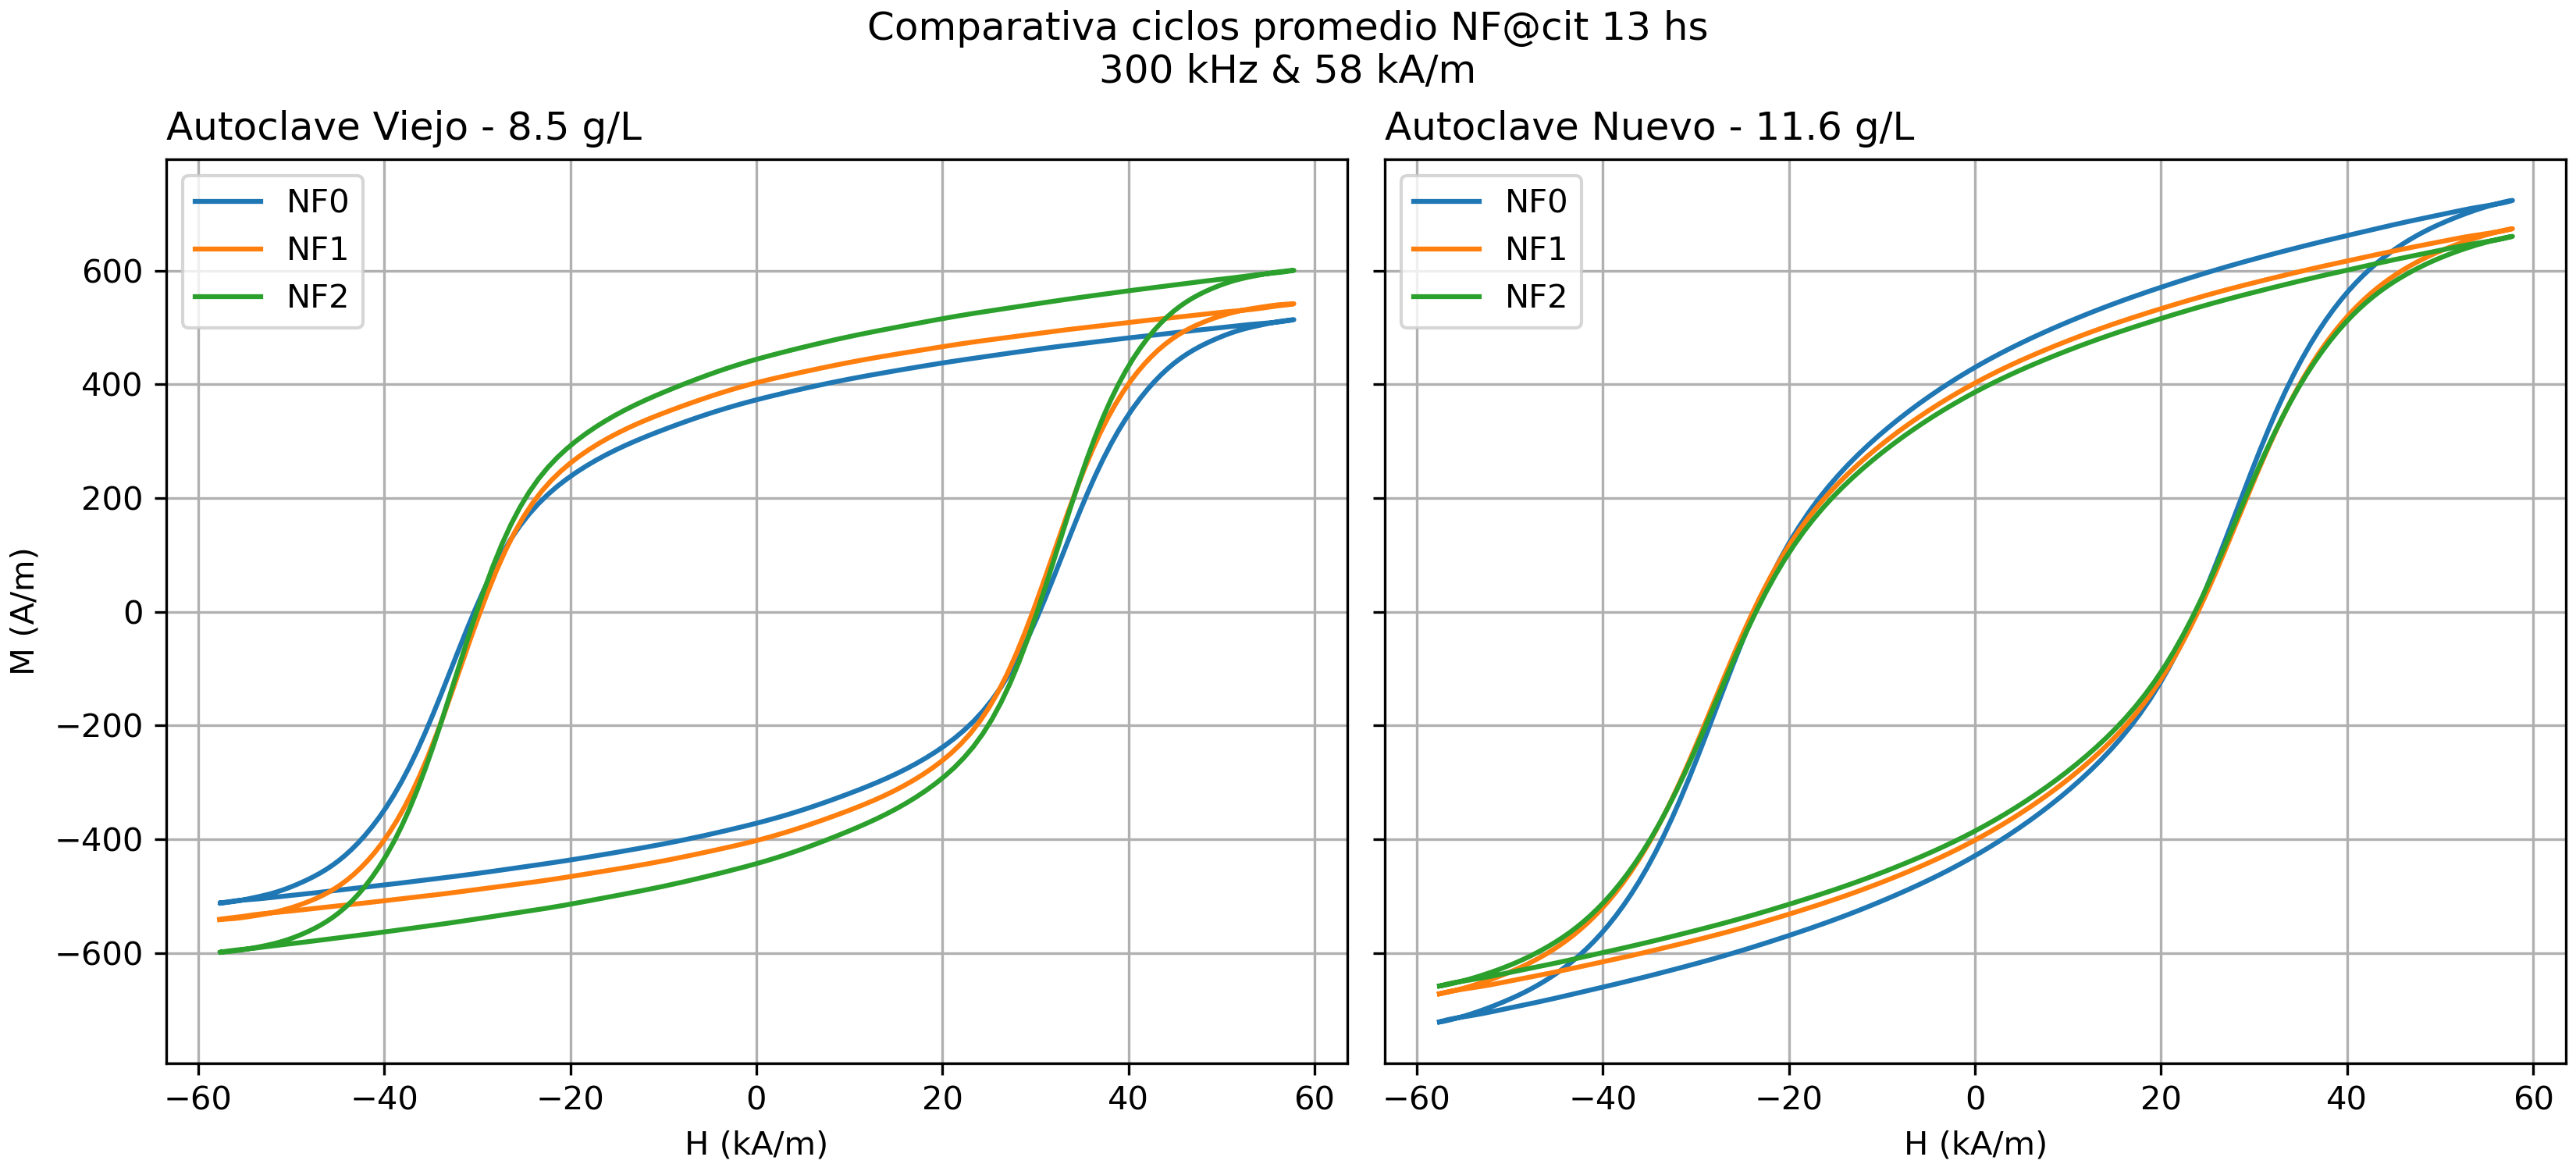
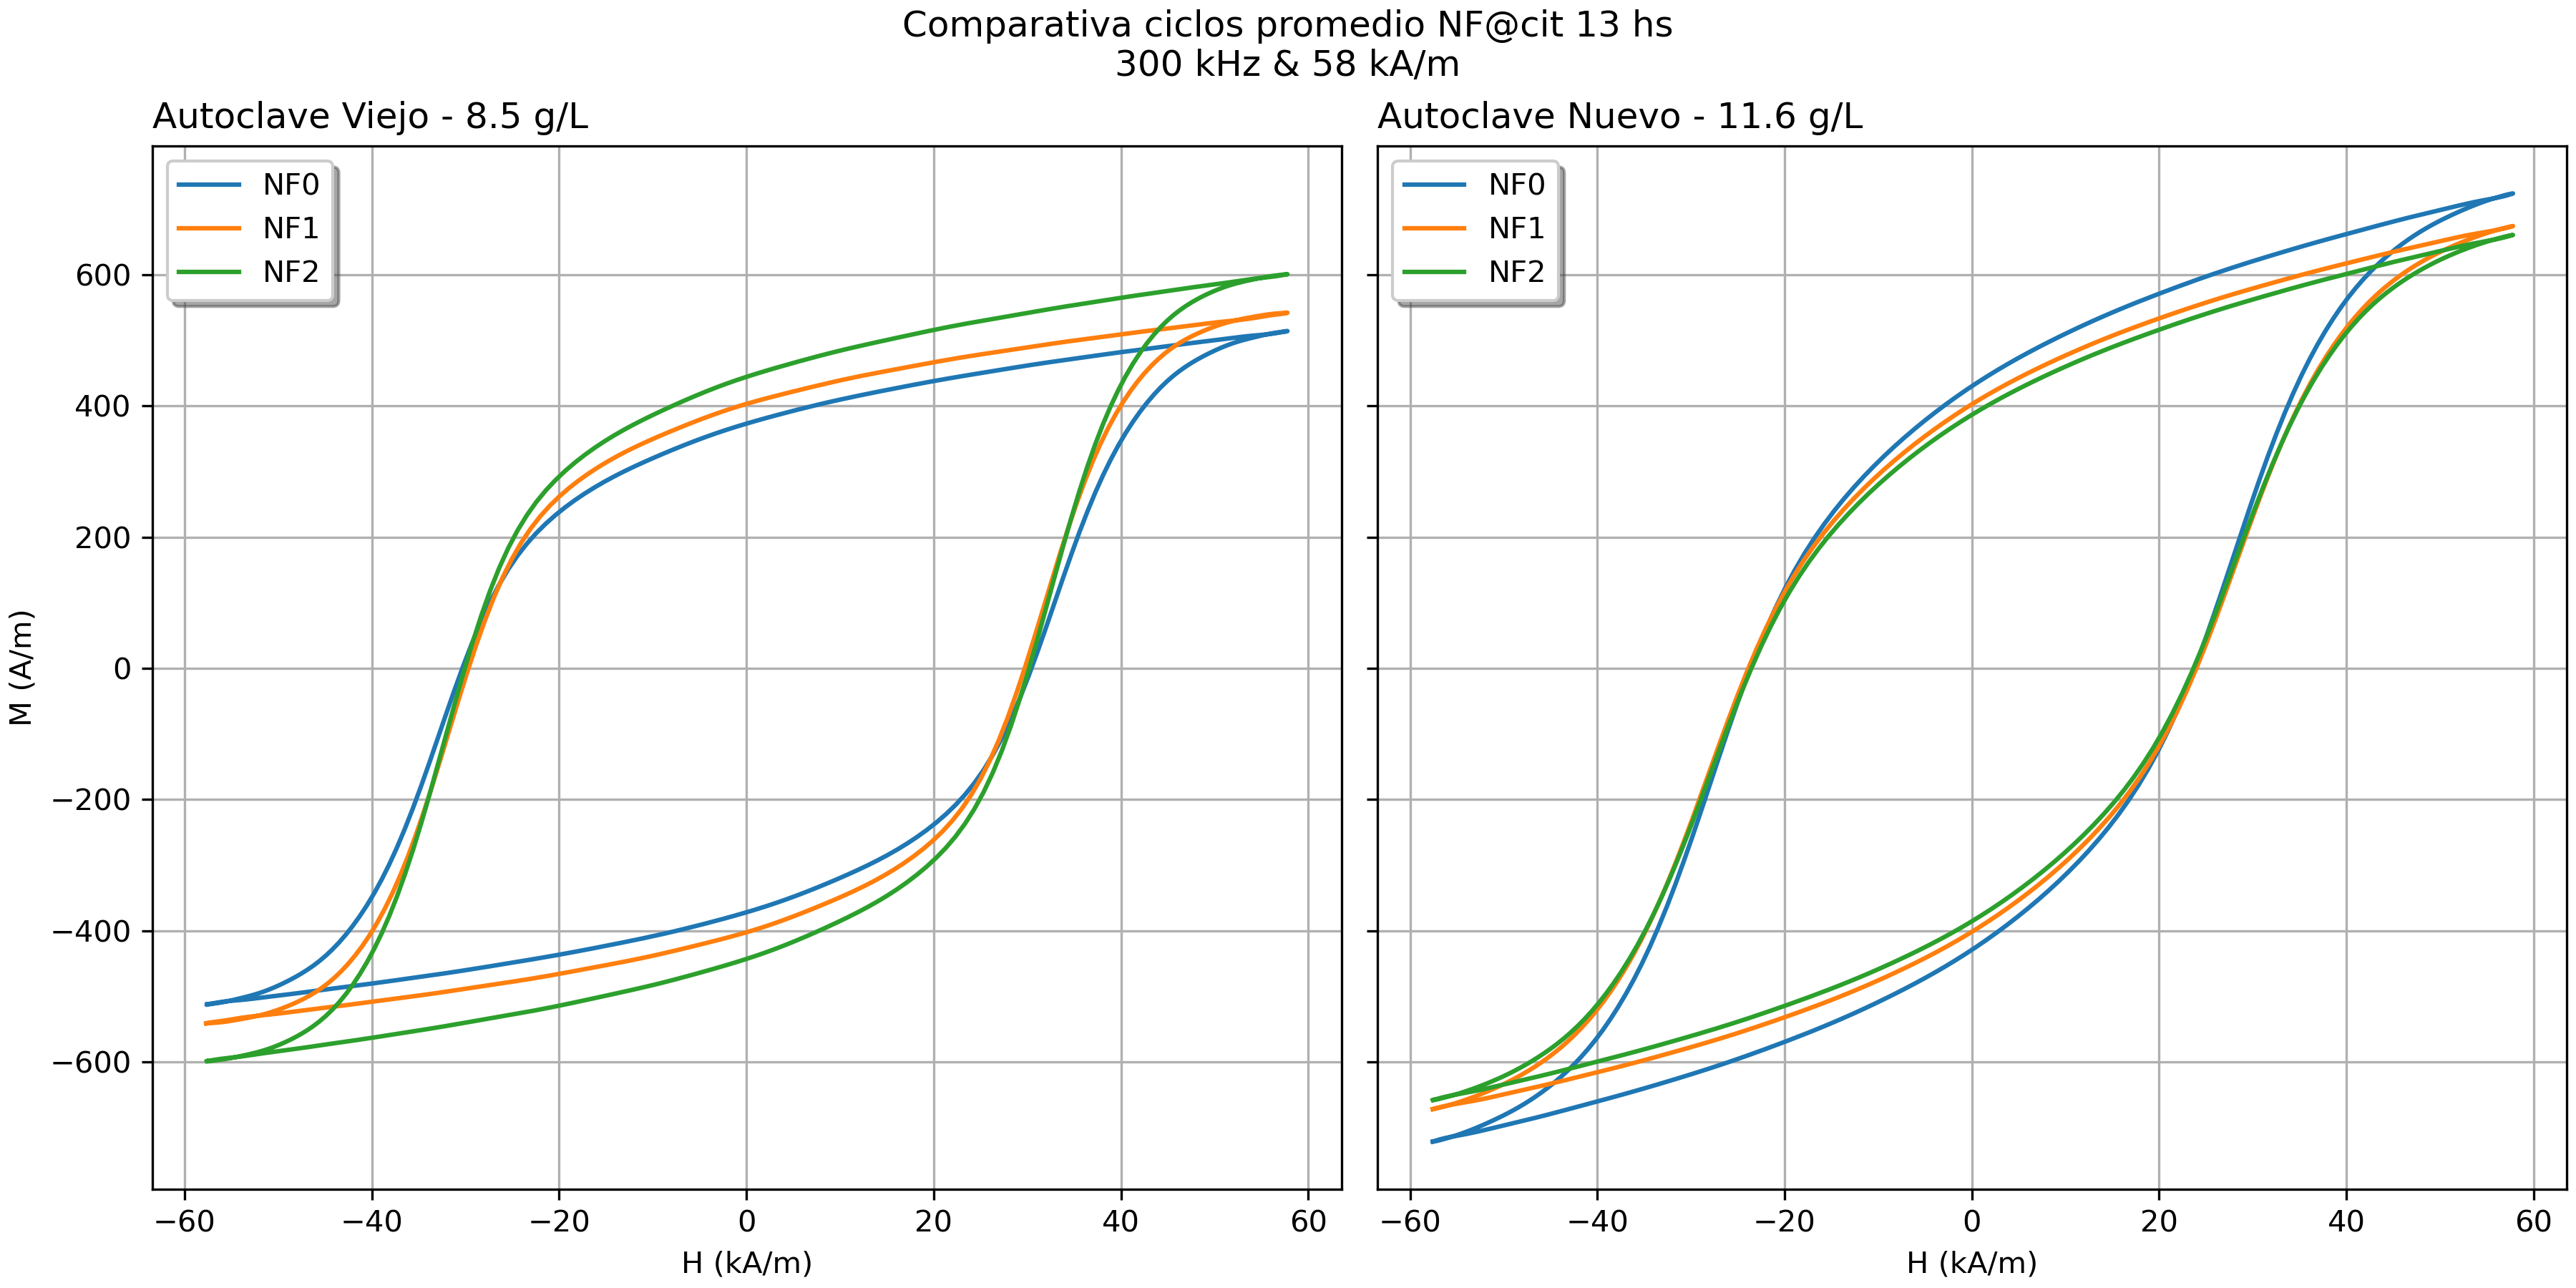
updates

diff --git a/comparativa_NF_13h_260421.py b/comparativa_NF_13h_260421.py
@@ -148,7 +148,7 @@ for res in resultados_13_AN:
     print('  ',res)    
 print('-'*50)    
 #%% ploteo Viejo/Nuevo
-fig00, (ax,ax2) =plt.subplots(1,2,figsize=(11,5),constrained_layout=True,sharey=True,sharex=True)
+fig00, (ax,ax2) =plt.subplots(1,2,figsize=(12,6),constrained_layout=True,sharey=True,sharex=True)
 
 ax.set_ylabel('M (A/m)')
 ax.set_title(f'Autoclave Viejo - {conc_13_AV:.1f} g/L',loc='left')
@@ -167,11 +167,11 @@ for i,e in enumerate(ciclos_13_AN):
 for a in ax,ax2:
     a.grid()
     a.set_xlabel('H (kA/m)')
-    a.legend(loc='upper left')
+    a.legend(loc='upper left',frameon=True,shadow=True)
 plt.suptitle(f'Comparativa ciclos promedio NF@cit 13 hs\n300 kHz & 58 kA/m')
 plt.savefig('0_ciclos_promedio_NF13h_AV_AN.png',dpi=300)
 
-fig01, (ax,ax2) =plt.subplots(1,2,figsize=(11,5),constrained_layout=True,sharey=True,sharex=True)
+fig01, (ax,ax2) =plt.subplots(1,2,figsize=(12,6),constrained_layout=True,sharey=True,sharex=True)
 
 ax.set_ylabel('M/[NPM] (Am²/kg)')
 ax.set_title(f'Autoclave Viejo - {conc_13_AV:.1f} g/L',loc='left')
@@ -190,7 +190,7 @@ for i,e in enumerate(ciclos_13_AN):
 for a in ax,ax2:
     a.grid()
     a.set_xlabel('H (kA/m)')
-    a.legend(loc='upper left')
+    a.legend(loc='upper left',frameon=True,shadow=True)
 plt.suptitle(f'Comparativa ciclos promedio NF@cit 13 hs\n300 kHz & 58 kA/m')
 plt.savefig('0_ciclos_promedio_norm_NF13h_AV_AN.png',dpi=300)
 
@@ -462,14 +462,14 @@ fig3.savefig('3_Hc_comparativa_sintesis_NF13h.png',dpi=300)
 
 #%% Ploteo comparativo en 1x5 (incluyendo síntesis primera)
 
-fig, axs = plt.subplots(1, 5, figsize=(21, 5), constrained_layout=True, sharex=True, sharey=True)
+fig, axs = plt.subplots(1, 4, figsize=(18, 5), constrained_layout=True, sharex=True, sharey=True)
 
 # Títulos
 axs[0].set_title(f'{sintesis_primera} - {conc_13_primera:.1f} g/L', loc='left')
-axs[1].set_title(f'{sintesis_mala} - {conc_13_mala:.1f} g/L', loc='left')
-axs[2].set_title(f'{sintesis_buena} - {conc_13_buena:.1f} g/L', loc='left')
-axs[3].set_title(f'{sintesis_AV} - {conc_13_AV:.1f} g/L', loc='left')
-axs[4].set_title(f'{sintesis_AN} - {conc_13_AN:.1f} g/L', loc='left')
+# axs[1].set_title(f'{sintesis_mala} - {conc_13_mala:.1f} g/L', loc='left')
+axs[1].set_title(f'{sintesis_buena} - {conc_13_buena:.1f} g/L', loc='left')
+axs[2].set_title(f'{sintesis_AV} - {conc_13_AV:.1f} g/L', loc='left')
+axs[3].set_title(f'{sintesis_AN} - {conc_13_AN:.1f} g/L', loc='left')
 
 
 # --- PRIMERA ---
@@ -482,24 +482,24 @@ for h, j in enumerate(ciclos_13_primera):
 for i, e in enumerate(ciclos_13_mala):
     if '150dA' in e:
         _, _, _, H_13, M_13, _ = lector_ciclos(e)
-        axs[1].plot(H_13/1000, M_13/conc_13_mala, '-', label=f'{SAR_13_mala[i]:.3uS}')
+        # axs[1].plot(H_13/1000, M_13/conc_13_mala, '-', label=f'{SAR_13_mala[i]:.3uS}')
 
 # --- BUENA ---
 for i, e in enumerate(ciclos_13_buena):
     if '152dA' in e:
         _, _, _, H_13, M_13, _ = lector_ciclos(e)
-        axs[2].plot(H_13/1000, M_13/conc_13_buena, '-', label=f'{SAR_13_buena[i]:.3uS}')
+        axs[1].plot(H_13/1000, M_13/conc_13_buena, '-', label=f'{SAR_13_buena[i]:.3uS}')
 # --- AV ---
 for i, e in enumerate(ciclos_13_AV):
     if '152dA' in e:
         _, _, _, H_13, M_13, _ = lector_ciclos(e)
-        axs[3].plot(H_13/1000, M_13/conc_13_AV, '-', label=f'{SAR_13_AV[i]:.3uS}')
+        axs[2].plot(H_13/1000, M_13/conc_13_AV, '-', label=f'{SAR_13_AV[i]:.3uS}')
 
 # --- AN ---
 for i, e in enumerate(ciclos_13_AN):
     if '152dA' in e:
         _, _, _, H_13, M_13, _ = lector_ciclos(e)
-        axs[4].plot(H_13/1000, M_13/conc_13_AN, '-', label=f'{SAR_13_AN[i]:.3uS}')
+        axs[3].plot(H_13/1000, M_13/conc_13_AN, '-', label=f'{SAR_13_AN[i]:.3uS}')
 
 
 
@@ -513,5 +513,5 @@ axs[0].set_ylabel('M/[NPM] (Am²/kg)')
 for ax in axs:
     ax.set_xlabel('H (kA/m)')
     
-plt.savefig('0_comparativa_ciclos_promedio_NF13h_primera_mala_buena_AV_AN.png',dpi=300)
+plt.savefig('0_comparativa_ciclos_promedio_NF13h_primera_buena_AV_AN.png',dpi=300)
 # %%